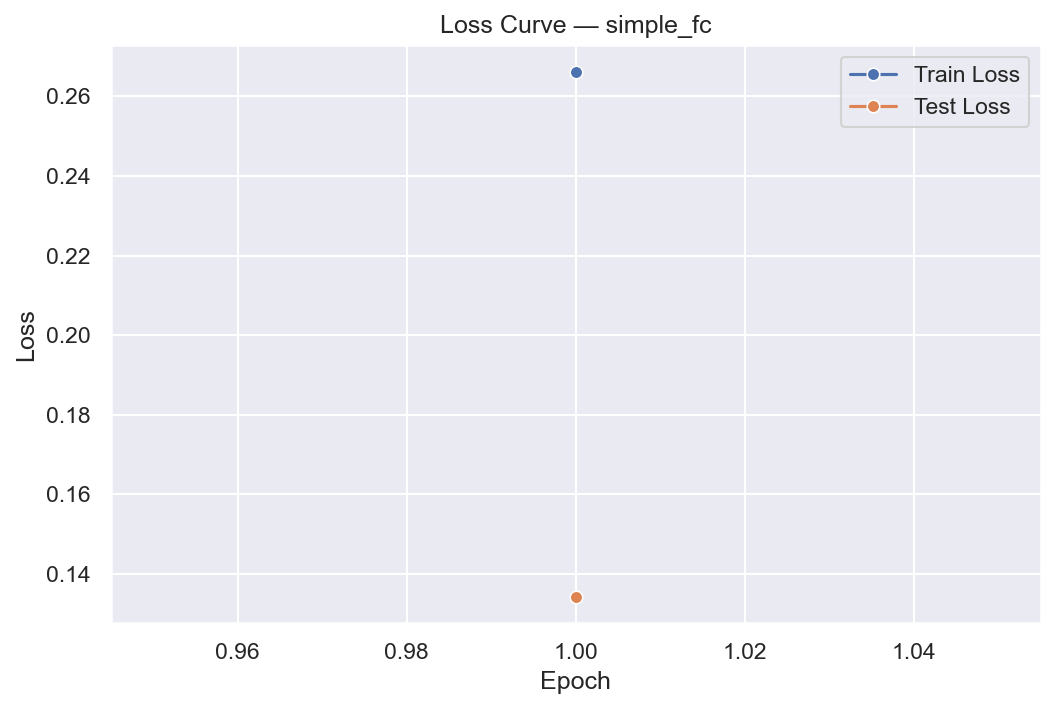
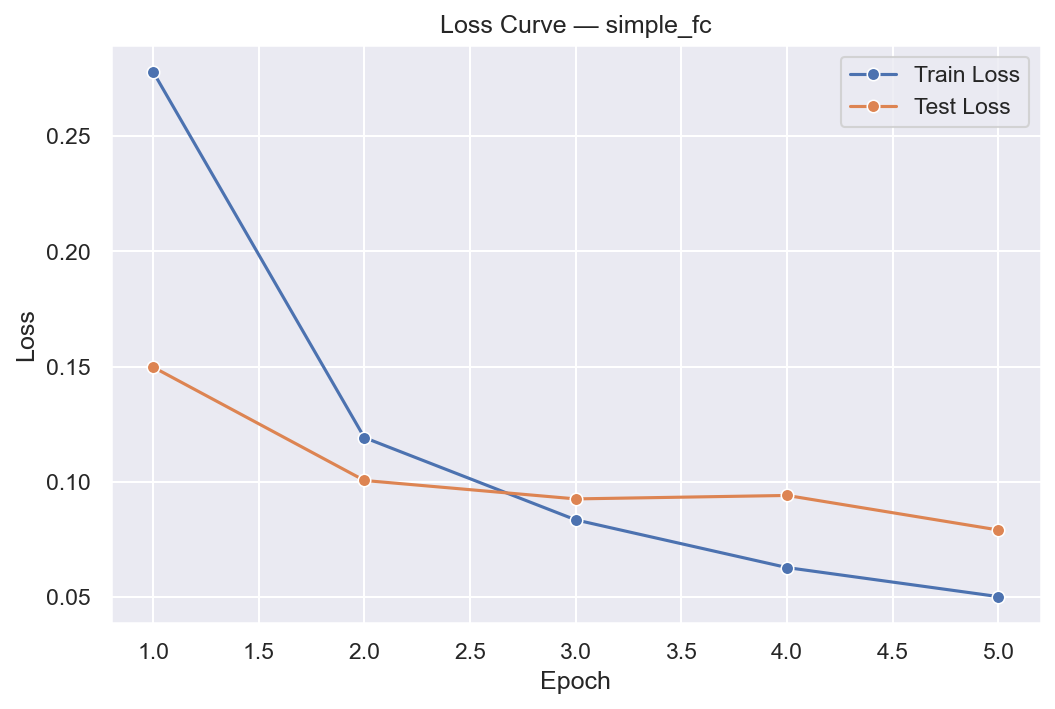
Update docs and train.py: architecture display, dual training curves, seaborn
- train.py: add ASCII architecture diagram, dual training curves (loss + accuracy)
- README: update project structure, outputs, deps (seaborn), add output_log section
- docs/train.md: add steps 9-11 (architecture, training curves, output logging)
- docs/visualize.md: update deps to seaborn, add output logging step
- New: training_curves.png (side-by-side loss + accuracy plot)

diff --git a/train.py b/train.py
@@ -28,6 +28,47 @@ from utils.data import get_data_loaders
 from utils.output_log import log_run
 
 
+def print_architecture(model, model_name):
+    """Print a clean ASCII diagram of the model architecture to the terminal."""
+    print(f"\n{'=' * 50}")
+    print(f"  Architecture: {model_name}")
+    print(f"{'=' * 50}")
+
+    layers = []
+    for name, module in model.named_modules():
+        if name == "":
+            continue
+        # Skip container modules (Sequential, etc.)
+        if len(list(module.children())) > 0:
+            continue
+
+        params = sum(p.numel() for p in module.parameters())
+        layer_type = module.__class__.__name__
+
+        if hasattr(module, "in_features"):
+            shape = f"{module.in_features} -> {module.out_features}"
+        elif hasattr(module, "in_channels"):
+            shape = f"{module.in_channels}ch -> {module.out_channels}ch, {module.kernel_size}"
+        elif isinstance(module, torch.nn.MaxPool2d):
+            shape = f"kernel={module.kernel_size}"
+        else:
+            shape = ""
+
+        layers.append((layer_type, shape, params))
+
+    total_params = sum(p.numel() for p in model.parameters())
+
+    for i, (ltype, shape, params) in enumerate(layers):
+        prefix = "  ├─" if i < len(layers) - 1 else "  └─"
+        param_str = f"  ({params:,} params)" if params > 0 else ""
+        shape_str = f"  [{shape}]" if shape else ""
+        print(f"{prefix} {ltype}{shape_str}{param_str}")
+
+    print(f"  {'─' * 46}")
+    print(f"  Total parameters: {total_params:,}")
+    print(f"{'=' * 50}\n")
+
+
 def main():
     # print out the config details:
     print(f"Model: {MODEL_NAME} | Device: {DEVICE} | Epochs: {EPOCHS}")
@@ -71,6 +112,9 @@ def main():
     torch.save(model.state_dict(), save_path)
     print(f"\nModel saved to {save_path}")
 
+    # Show architecture
+    print_architecture(model, MODEL_NAME)
+
     # Save training metadata
     metadata = {
         "model_name": MODEL_NAME,
@@ -97,7 +141,7 @@ def main():
         json.dump(metadata, f, indent=2)
     print(f"Metadata saved to {meta_path}")
 
-    # Plot loss curves (optional — requires seaborn)
+    # Plot training curves (optional — requires seaborn)
     try:
         import seaborn as sns
         import matplotlib.pyplot as plt
@@ -107,20 +151,35 @@ def main():
         epochs_range = [e["epoch"] for e in epoch_log]
         train_losses = [e["train_loss"] for e in epoch_log]
         test_losses = [e["test_loss"] for e in epoch_log]
+        train_accs = [e["train_acc"] for e in epoch_log]
+        test_accs = [e["test_acc"] for e in epoch_log]
 
-        fig, ax = plt.subplots(figsize=(8, 5))
-        sns.lineplot(x=epochs_range, y=train_losses, marker="o", label="Train Loss", ax=ax)
-        sns.lineplot(x=epochs_range, y=test_losses, marker="o", label="Test Loss", ax=ax)
-        ax.set_xlabel("Epoch")
-        ax.set_ylabel("Loss")
-        ax.set_title(f"Loss Curve — {MODEL_NAME}")
+        fig, (ax1, ax2) = plt.subplots(1, 2, figsize=(14, 5))
 
-        plot_path = EXPERIMENTS_DIR / f"{MODEL_NAME}_loss_curve.png"
+        # Loss curve
+        sns.lineplot(x=epochs_range, y=train_losses, marker="o", label="Train Loss", ax=ax1)
+        sns.lineplot(x=epochs_range, y=test_losses, marker="o", label="Test Loss", ax=ax1)
+        ax1.set_xlabel("Epoch")
+        ax1.set_ylabel("Loss")
+        ax1.set_title(f"Loss — {MODEL_NAME}")
+
+        # Accuracy curve
+        sns.lineplot(x=epochs_range, y=train_accs, marker="o", label="Train Acc", ax=ax2)
+        sns.lineplot(x=epochs_range, y=test_accs, marker="o", label="Test Acc", ax=ax2)
+        ax2.set_xlabel("Epoch")
+        ax2.set_ylabel("Accuracy")
+        ax2.set_title(f"Accuracy — {MODEL_NAME}")
+        ax2.set_ylim(0.9, 1.0)
+
+        fig.suptitle(f"Training Curves — {MODEL_NAME}", fontsize=14, y=1.02)
+        fig.tight_layout()
+
+        plot_path = EXPERIMENTS_DIR / f"{MODEL_NAME}_training_curves.png"
         fig.savefig(plot_path, bbox_inches="tight", dpi=150)
         plt.close(fig)
-        print(f"Loss curve saved to {plot_path}")
+        print(f"Training curves saved to {plot_path}")
     except ImportError:
-        print("Skipping loss curve plot (seaborn not installed)")
+        print("Skipping training curves plot (seaborn not installed)")
 
     # Build details string for output log
     detail_lines = []

diff --git a/README.md b/README.md
@@ -21,10 +21,11 @@ MNIST/
     trainer.py           — Training loop: feed data, measure error, adjust weights
   evaluation/
     evaluate.py          — Test loop: measure accuracy on unseen data
-    visualize.py         — Confusion matrix + sample prediction visualizations
+    visualize.py         — Confusion matrix + sample prediction visualizations (seaborn)
   experiments/           — Saved outputs: model weights (.pt), metadata (.json), charts (.png)
   utils/
     data.py              — Data loading + image transforms
+    output_log.py        — Structured run logging (appends to output.log)
   docs/
     train.md             — Deep dive: what happens when you run train.py
     evaluate.md          — Deep dive: what happens when you run evaluate.py
@@ -35,7 +36,7 @@ MNIST/
 
 ```bash
 # Install dependencies
-pip install torch torchvision matplotlib scikit-learn
+pip install torch torchvision seaborn scikit-learn
 
 # Train the model
 cd Desktop/MNIST
@@ -62,13 +63,31 @@ Epoch 1/5 | Train Loss: 0.2653 Acc: 0.9217 | Test Loss: 0.1264 Acc: 0.9614 | Tim
 Epoch 5/5 | Train Loss: 0.0500 Acc: 0.9837 | Test Loss: 0.0891 Acc: 0.9752 | Time: 38.7s
 
 Model saved to experiments/simple_fc.pt
+
+==================================================
+  Architecture: simple_fc
+==================================================
+  ├─ Flatten
+  ├─ Linear  [784 -> 128]  (100,480 params)
+  ├─ ReLU
+  ├─ Linear  [128 -> 64]  (8,256 params)
+  ├─ ReLU
+  └─ Linear  [64 -> 10]  (650 params)
+  ──────────────────────────────────────────────
+  Total parameters: 109,386
+==================================================
+
 Metadata saved to experiments/simple_fc_metadata.json
-Loss curve saved to experiments/simple_fc_loss_curve.png
+Training curves saved to experiments/simple_fc_training_curves.png
+Run logged to output.log
 ```
 
 - **Loss** goes down each epoch (model is making fewer mistakes)
 - **Accuracy** goes up each epoch (model is guessing more digits correctly)
 - Final test accuracy ~97% for the simple FC model, ~99% for the CNN
+- **Architecture diagram** prints to terminal after training
+- **Training curves** (loss + accuracy side-by-side) saved as PNG
+- **Run log** appended to `output.log` with timestamps, config, and results
 
 ## Key Concepts
 
@@ -110,7 +129,11 @@ Every runnable file imports constants from config.py. Here's who imports what, a
      │ Output:          │                  │  - terminal text      │
      │  - .pt model     │                  │    (loss + accuracy)  │
      │  - .json metadata│                  └───────────────────────┘
-     │  - loss curve PNG│
+     │  - training      │
+     │    curves PNG    │
+     │  - architecture  │
+     │    (terminal)    │
+     │  - output.log    │
      └────────┬─────────┘
               │                            ┌───────────────────────┐
               │   saved to                 │  visualize.py         │
@@ -122,8 +145,9 @@ Every runnable file imports constants from config.py. Here's who imports what, a
      │  cnn.pt         │                  │  - experiments/*.pt   │
      │  *_confusion.png│ <── saved by ──  │  - --model CLI flag   │
      │  *_samples.png  │                  │                       │
-     └──────────────────┘                  │ Output:               │
-                                           │  - 2 PNG files        │
+     │  *_training_    │                  │ Output:               │
+     │    curves.png   │                  │  - 2 PNG files        │
+     └──────────────────┘                  │  - output.log entry   │
                                            └───────────────────────┘
 ```
 
@@ -143,10 +167,13 @@ There are **3 entry points** you can run. Each one imports from config.py:
             │   ├─ evaluate.py tests on 10k images (live progress bar)
             │   └─ Prints: loss ↓ accuracy ↑ time ⏱
             │
+            ├─ Prints ASCII architecture diagram to terminal
+            │
             └─ Saves to experiments/:
-                ├─ simple_fc.pt              (trained model weights)
-                ├─ simple_fc_metadata.json   (config, timing, per-epoch stats)
-                └─ simple_fc_loss_curve.png  (train vs test loss chart)
+                ├─ simple_fc.pt                    (trained model weights)
+                ├─ simple_fc_metadata.json         (config, timing, per-epoch stats)
+                └─ simple_fc_training_curves.png   (loss + accuracy side-by-side)
+            └─ Appends run to output.log
 
 
 2. python -m evaluation.evaluate            (TEST ONLY — no training)
@@ -272,5 +299,12 @@ Generates two PNG visualizations after training:
 How it works:
 - Loads a trained model from `experiments/`
 - Runs all test images through it to collect predictions
-- Uses matplotlib + scikit-learn to generate the plots
+- Uses seaborn + scikit-learn to generate the plots
 - Saves PNGs to `experiments/`
+- Appends run to `output.log`
+
+### utils/output_log.py — Run Logging
+
+Every time train.py, evaluate, or visualize runs, it appends a structured entry to `output.log` in the project root. Each entry includes a timestamp, the command that ran, success/error status, and a summary of key metrics. This gives you a single file to check what happened, when, and whether it worked.
+
+The log is append-only — newest entries at the bottom. Added to `.gitignore` so each machine has its own local log.

diff --git a/docs/train.md b/docs/train.md
@@ -2,7 +2,7 @@
 
 ## Quick Summary
 
-`python train.py` is the main entry point. It loads settings, builds a model, trains it on 60k images, tests it on 10k images, saves the trained weights, saves training metadata to JSON, and plots a loss curve.
+`python train.py` is the main entry point. It loads settings, builds a model, trains it on 60k images, tests it on 10k images, saves the trained weights, prints an ASCII architecture diagram, saves training metadata to JSON, plots training curves (loss + accuracy), and logs the run to `output.log`.
 
 ## Step by Step
 
@@ -76,19 +76,47 @@ A JSON file is saved to `experiments/simple_fc_metadata.json` with:
 - Final train/test loss and accuracy
 - Per-epoch breakdown (loss, accuracy, time for each epoch)
 
-### 9. Loss curve gets plotted
+### 9. Architecture diagram prints to terminal
 
-A PNG chart is saved to `experiments/simple_fc_loss_curve.png` showing train loss and test loss across all epochs. This makes it easy to spot overfitting (when train loss keeps dropping but test loss starts rising).
+An ASCII diagram of the model architecture is printed, showing each layer, its shape, and parameter count:
+
+```
+==================================================
+  Architecture: simple_fc
+==================================================
+  ├─ Flatten
+  ├─ Linear  [784 -> 128]  (100,480 params)
+  ├─ ReLU
+  ├─ Linear  [128 -> 64]  (8,256 params)
+  ├─ ReLU
+  └─ Linear  [64 -> 10]  (650 params)
+  ──────────────────────────────────────────────
+  Total parameters: 109,386
+==================================================
+```
+
+### 10. Training curves get plotted
+
+A PNG chart is saved to `experiments/simple_fc_training_curves.png` with two side-by-side plots:
+- **Left:** Train loss vs test loss across all epochs (spot overfitting here)
+- **Right:** Train accuracy vs test accuracy across all epochs
+
+Uses seaborn for clean styling. If seaborn isn't installed, this step is skipped gracefully.
+
+### 11. Run gets logged to output.log
+
+A structured entry is appended to `output.log` in the project root with the timestamp, config, final metrics, and per-epoch breakdown. On error, the full traceback is logged instead.
 
 ## Outputs
 
-After training completes, three files are saved to `experiments/`:
+After training completes, these files are saved/updated:
 
 | File | Contents |
 |------|----------|
-| `simple_fc.pt` | Trained model weights (430 KB) |
-| `simple_fc_metadata.json` | Training metadata (config, timing, per-epoch stats) |
-| `simple_fc_loss_curve.png` | Loss curve chart (train vs test) |
+| `experiments/simple_fc.pt` | Trained model weights (430 KB) |
+| `experiments/simple_fc_metadata.json` | Training metadata (config, timing, per-epoch stats) |
+| `experiments/simple_fc_training_curves.png` | Loss + accuracy curves (side-by-side) |
+| `output.log` | Append-only run log with timestamps and metrics |
 
 ## Total Time
 

diff --git a/docs/visualize.md b/docs/visualize.md
@@ -43,7 +43,7 @@ Actual  2 [.  .  ■  .  .  .  .  .  .  .]
 
 A 10x10 grid. Each cell shows how many times a digit (row) was predicted as another digit (column). A perfect model = bright diagonal, everything else dark. Off-diagonal bright spots reveal which digits get confused (e.g., 4s and 9s, 3s and 8s).
 
-Uses `sklearn.metrics.confusion_matrix` + `matplotlib` to render.
+Uses `sklearn.metrics.confusion_matrix` + `seaborn.heatmap` to render.
 
 Saved to: `experiments/<model_name>_confusion_matrix.png`
 
@@ -59,20 +59,25 @@ Uses a fixed random seed (42) so the same images are selected every time.
 
 Saved to: `experiments/<model_name>_samples.png`
 
-### 6. Done
+### 6. Run gets logged to output.log
+
+A structured entry is appended to `output.log` with the timestamp, model name, test accuracy, and paths to saved files. On error, the full traceback is logged instead.
+
+### 7. Done
 
 ```
 Generating visualizations for: simple_fc
 Test accuracy: 0.9723
 Saved confusion matrix to experiments/simple_fc_confusion_matrix.png
 Saved sample predictions to experiments/simple_fc_samples.png
+Run logged to output.log
 Done!
 ```
 
 ## Dependencies
 
 This is the only file that requires extra packages beyond PyTorch:
-- `matplotlib` — for rendering the plots
+- `seaborn` — for rendering the heatmap (pulls in matplotlib)
 - `scikit-learn` — for computing the confusion matrix
 
-Install with: `pip install matplotlib scikit-learn`
+Install with: `pip install seaborn scikit-learn`
